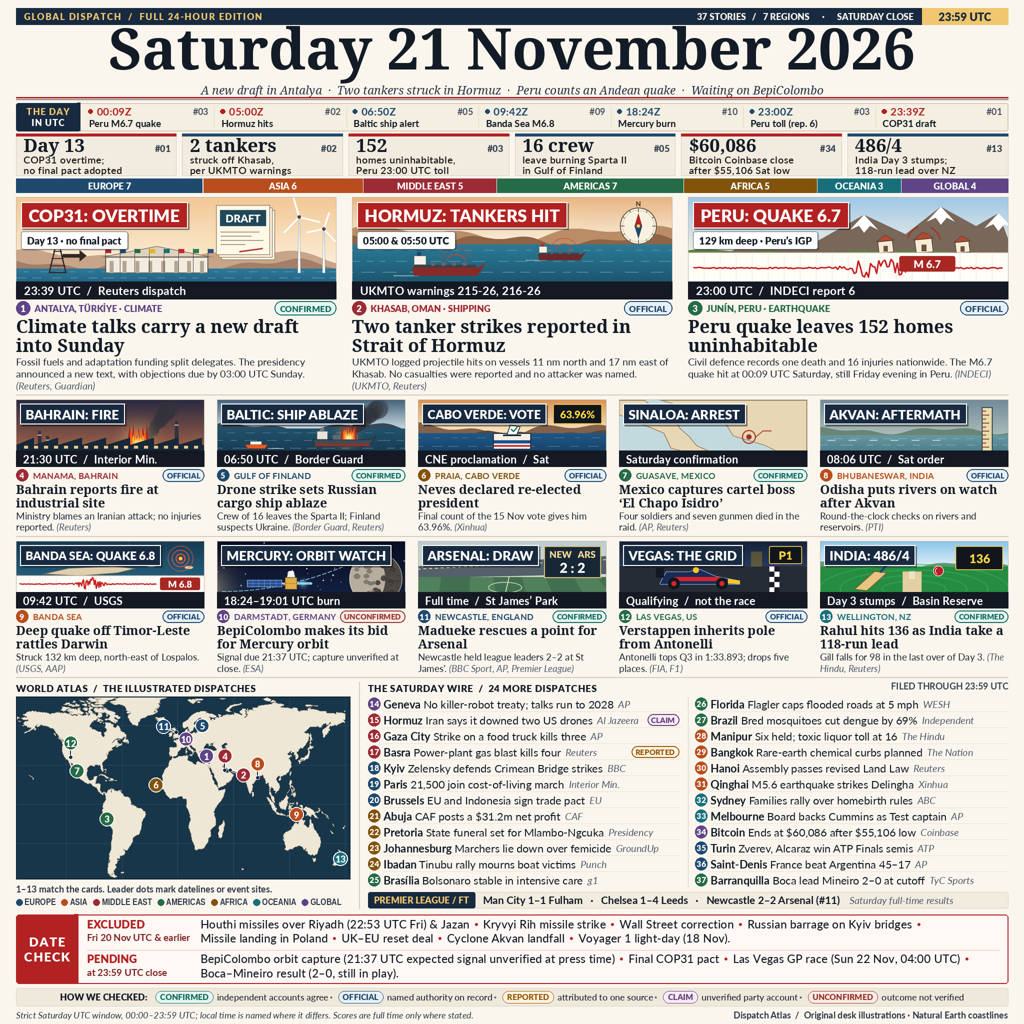
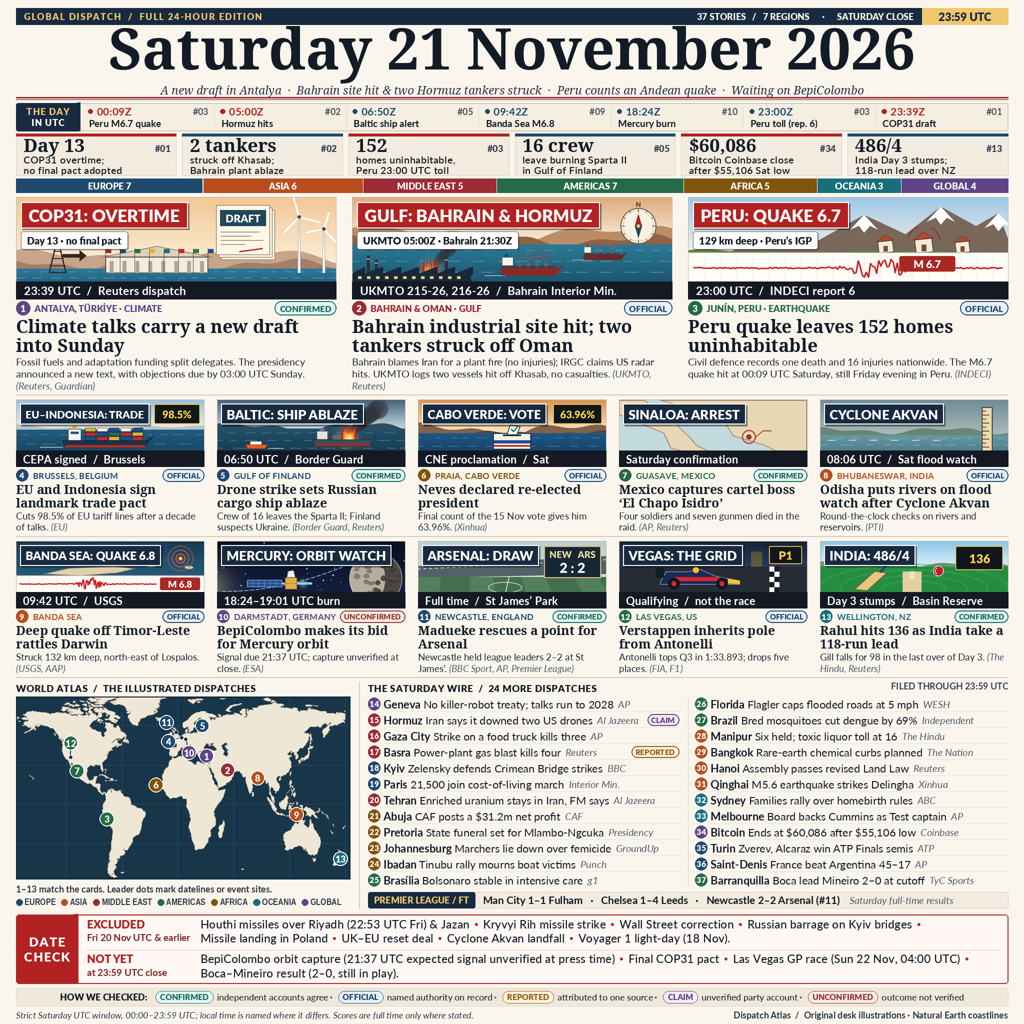
Combine Gulf lead, promote EU-Indonesia trade pact, and clarify Akvan & date-check copy (v12)

diff --git a/tools/art.py b/tools/art.py
@@ -252,57 +252,72 @@ def scene_cop31(p):
     p.line([(x + 24, y + 46.5), (x + 46, y + 43.5)], "#AF392F", 1.5)
 
 
-def scene_hormuz_hero(p):
-    """Strait of Hormuz: two outbound tankers off Khasab with an archival compass rose."""
+def scene_gulf_hero(p):
+    """Persian Gulf diptych: Bahrain industrial plant fire on left, two Hormuz tankers + compass on right."""
     w, h, g = p.w, p.h, p.base
     sea = g * 0.56
-    p.vgrad(0, sea, "#E7B482", "#FAF0DC")
-    p.glow(w * 0.68, sea * 0.85, h * 0.58, "#FFE3A6", 115)
+    p.vgrad(0, sea, "#DFAA7B", "#FAF0DC")
+    p.glow(w * 0.68, sea * 0.85, h * 0.54, "#FFE3A6", 110)
 
-    # Layered Musandam / Khasab headlands behind the strait.
+    # Layered Musandam / Khasab headlands behind the Strait of Hormuz.
     ridge(p, sea - 10.5, h * 0.11, 1.4, 0.4, "#BA8D66", y_floor=sea + 2)
     ridge(p, sea - 3.8, h * 0.07, 2.2, 1.6, "#8E6346", y_floor=sea + 2)
     waves(p, sea, h, "#2B7A96", "#15455C", n=5, seed=15)
 
-    # Distant outbound tanker (right-center) with alert beacon rings.
-    tx2, ty2 = w * 0.65, sea + (g - sea) * 0.34
-    p.line([(tx2 - 34, ty2 + 3.2), (tx2 - 14, ty2 + 3.2)], rgb("#D8F1F8", 145), 0.7)
-    p.poly([(tx2 - 22, ty2 - 2.5), (tx2 + 21, ty2 - 2.5), (tx2 + 26, ty2 - 5.5),
-            (tx2 + 20, ty2 + 3.2), (tx2 - 21, ty2 + 3.2)], "#6F2829")
-    p.rect(tx2 - 21, ty2 - 4.2, tx2 + 19, ty2 - 2.4, "#3B434E")
-    p.rect(tx2 - 21, ty2 - 10.5, tx2 - 13, ty2 - 4.2, "#F6F2E9", "#7C756A", 0.35)
-    p.rect(tx2 - 19, ty2 - 13.5, tx2 - 16, ty2 - 10.5, "#B0322E")
+    # Left shore: Bahrain industrial facility silhouette with fire & smoke plume (clear below sub-tag).
+    bx_end = w * 0.345
+    smoke(p, w * 0.255, g - 15, 22, -25, 2.8, 7.8, 12, "#2E303A", 165, seed=13)
+    p.glow(w * 0.245, g - 11, 22, "#FFBD63", 175, steps=10)
+    flames(p, w * 0.245, g - 6, 17, 19, seed=7)
+    for sx, top in ((14, g - 26), (22, g - 22), (92, g - 25)):
+        p.poly([(sx, h), (sx + 1, top), (sx + 3.5, top), (sx + 5, h)], "#2C2E3E")
+        p.line([(sx + 1, top + 3.5), (sx + 3.5, top + 3.5)], "#E5C19F", 0.9)
+    roof = [(0, h), (0, g - 8)]
+    for x in range(0, int(bx_end), 18):
+        roof.extend([(x + 13, g - 15), (x + 13, g - 8)])
+    p.poly(roof + [(bx_end + 8, g - 5), (bx_end + 14, h)], "#182839")
+    for x in range(6, int(bx_end) - 4, 9):
+        p.rect(x, g - 5.2, x + 3.6, g - 2.6, "#F2CA85")
+
+    # Right sea lane: distant outbound tanker off Khasab with alert beacon arcs.
+    tx2, ty2 = w * 0.785, sea + (g - sea) * 0.34
+    p.line([(tx2 - 30, ty2 + 3.0), (tx2 - 12, ty2 + 3.0)], rgb("#D8F1F8", 145), 0.7)
+    p.poly([(tx2 - 20, ty2 - 2.4), (tx2 + 19, ty2 - 2.4), (tx2 + 24, ty2 - 5.2),
+            (tx2 + 18, ty2 + 3.0), (tx2 - 19, ty2 + 3.0)], "#6F2829")
+    p.rect(tx2 - 19, ty2 - 4.0, tx2 + 17, ty2 - 2.3, "#3B434E")
+    p.rect(tx2 - 19, ty2 - 10.0, tx2 - 12, ty2 - 4.0, "#F6F2E9", "#7C756A", 0.35)
+    p.rect(tx2 - 17, ty2 - 12.8, tx2 - 14.5, ty2 - 10.0, "#B0322E")
     for k in range(3):
-        p.circle(tx2 - 8 + k * 8.5, ty2 - 5.0, 1.8, "#58626E")
-    for rr, al in ((9.5, 195), (15.0, 130)):
-        p.arc(tx2 + 4, ty2 - 4, rr, 200, 340, rgb("#D43D2C", al), 1.05)
+        p.circle(tx2 - 7 + k * 7.8, ty2 - 4.8, 1.7, "#58626E")
+    for rr, al in ((8.8, 195), (13.8, 130)):
+        p.arc(tx2 + 3, ty2 - 4, rr, 200, 340, rgb("#D43D2C", al), 1.0)
 
-    # Foreground outbound tanker (lower-left, clear of the ribbon and sub-tag).
-    tx1, ty1 = w * 0.30, g - 10.5
-    p.line([(tx1 - 54, ty1 + 4.8), (tx1 - 30, ty1 + 4.8)], rgb("#D8F1F8", 160), 0.9)
-    p.poly([(tx1 - 36, ty1 - 3.8), (tx1 + 31, ty1 - 3.8), (tx1 + 38, ty1 - 8.2),
-            (tx1 + 29, ty1 + 4.8), (tx1 - 34, ty1 + 4.8)], "#862B28")
-    p.rect(tx1 - 34, ty1 - 6.2, tx1 + 28, ty1 - 3.8, "#38414C")
-    p.rect(tx1 - 34, ty1 - 15.2, tx1 - 22, ty1 - 6.2, "#F7F3EA", "#6F685E", 0.4)
-    p.rect(tx1 - 31, ty1 - 19.2, tx1 - 27, ty1 - 15.2, "#1F4A6E")
+    # Mid-foreground outbound tanker in the Strait of Hormuz.
+    tx1, ty1 = w * 0.56, g - 10.2
+    p.line([(tx1 - 46, ty1 + 4.4), (tx1 - 26, ty1 + 4.4)], rgb("#D8F1F8", 160), 0.85)
+    p.poly([(tx1 - 31, ty1 - 3.5), (tx1 + 27, ty1 - 3.5), (tx1 + 33, ty1 - 7.5),
+            (tx1 + 25, ty1 + 4.4), (tx1 - 29, ty1 + 4.4)], "#862B28")
+    p.rect(tx1 - 29, ty1 - 5.6, tx1 + 24, ty1 - 3.5, "#38414C")
+    p.rect(tx1 - 29, ty1 - 14.0, tx1 - 18, ty1 - 5.6, "#F7F3EA", "#6F685E", 0.4)
+    p.rect(tx1 - 26.5, ty1 - 17.5, tx1 - 23, ty1 - 14.0, "#1F4A6E")
     for k in range(4):
-        p.circle(tx1 - 15 + k * 10.5, ty1 - 7.3, 2.3, "#5B6572")
-    for rr, al in ((11.0, 205), (17.5, 135)):
-        p.arc(tx1 + 8, ty1 - 6, rr, 205, 335, rgb("#D43D2C", al), 1.15)
+        p.circle(tx1 - 12 + k * 9.0, ty1 - 6.7, 2.1, "#5B6572")
+    for rr, al in ((10.0, 205), (15.5, 135)):
+        p.arc(tx1 + 6, ty1 - 5.5, rr, 205, 335, rgb("#D43D2C", al), 1.1)
 
-    # Archival nautical compass rose in the clear upper-right sky (no blame implied).
-    cx, cy, cr = w * 0.895, 29.0, 18.5
+    # Archival nautical compass rose in the clear upper-right sky.
+    cx, cy, cr = w * 0.895, 29.0, 18.0
     p.circle(cx, cy, cr, "#FAF2E1", "#6D5E4C", 0.95)
     p.circle(cx, cy, cr - 2.6, None, "#C8B89E", 0.5)
     for angle in range(0, 360, 30):
         a = math.radians(angle)
-        inner = cr - (4.4 if angle % 90 == 0 else 2.6)
+        inner = cr - (4.2 if angle % 90 == 0 else 2.5)
         p.line([(cx + inner * math.sin(a), cy - inner * math.cos(a)),
                 (cx + (cr - 0.8) * math.sin(a), cy - (cr - 0.8) * math.cos(a))], "#6B6156", 0.75)
-    p.poly([(cx - 3.8, cy), (cx, cy - 12.6), (cx + 3.8, cy)], "#B22222")
-    p.poly([(cx - 3.8, cy), (cx, cy + 12.6), (cx + 3.8, cy)], "#1F4A6E")
+    p.poly([(cx - 3.6, cy), (cx, cy - 12.2), (cx + 3.6, cy)], "#B22222")
+    p.poly([(cx - 3.6, cy), (cx, cy + 12.2), (cx + 3.6, cy)], "#1F4A6E")
     p.circle(cx, cy, 2.2, "#F0C66E", "#4A3E30", 0.5)
-    p.text(cx, cy - cr - 3.8, "N", 6.8, "#5A4634")
+    p.text(cx, cy - cr - 3.6, "N", 6.8, "#5A4634")
 
 
 def scene_peru_hero(p):
@@ -539,21 +554,41 @@ def scene_rahul(p):
     p.text(w * 0.85, 17.5, "136", 12.0, "#FFD23F")
 
 
-def scene_bahrain(p):
+def scene_trade(p):
+    """EU-Indonesia CEPA: container vessel crossing open waters + 98.5% tariff-cut plaque."""
     w, h, g = p.w, p.h, p.base
-    p.vgrad(0, h, "#292A41", "#CC7549")
-    smoke(p, w * .69, g * .80, 24, -33, 3, 9, 18, "#32313A", 185)
-    p.glow(w * .65, g * .78, 34, "#FFC87C", 190)
-    flames(p, w * .65, g * .90, 22, 24)
-    for x, top in ((21, 31), (29, 36), (158, 21)):
-        p.poly([(x, h), (x + 1, top), (x + 4, top), (x + 6, h)], "#323242")
-        p.line([(x + 1, top + 4), (x + 4, top + 4)], "#E2BE9E", 1)
-    roof = [(0, h), (0, g * .88)]
-    for x in range(0, int(w), 24):
-        roof.extend([(x + 18, g * .74), (x + 18, g * .88)])
-    p.poly(roof + [(w, g * .88), (w, h)], "#162839")
-    for x in range(8, int(w), 10):
-        p.rect(x, g - 5.2, x + 4, g - 2.4, "#EFC887")
+    sea = g * 0.58
+    p.vgrad(0, sea, "#9AC0DC", "#F5EFE3")
+    ridge(p, sea - 1.5, h * 0.06, 1.3, 0.9, "#B6C4CC", y_floor=sea + 2)
+    waves(p, sea, h, "#215B7E", "#123852", crest="#E3F2FA", n=4, seed=47)
+
+    # Stylized deep-water container vessel carrying EU-navy, gold, crimson & ivory containers.
+    sx, sy = w * 0.48, g - 8.5
+    p.line([(sx - 66, sy + 4.8), (sx - 44, sy + 4.8)], rgb("#E6F4FA", 170), 0.85)
+    p.poly([(sx - 44, sy - 2.0), (sx + 40, sy - 2.0), (sx + 48, sy - 7.0),
+            (sx + 38, sy + 5.2), (sx - 41, sy + 5.2)], "#1D3248", "#0F1D2C", 0.55)
+    p.rect(sx - 41, sy + 2.6, sx + 39, sy + 5.0, "#A9302A")
+    # Stern bridge tower.
+    p.rect(sx - 38, sy - 13.5, sx - 25, sy - 2.0, "#F8F4EC", "#394856", 0.5)
+    p.rect(sx - 35.5, sy - 10.8, sx - 27.5, sy - 8.6, "#1F4E8C")
+    p.rect(sx - 34, sy - 16.5, sx - 29.5, sy - 13.5, "#E0AF38")
+    # Stacked containers cleanly below the upper-left ribbon.
+    cols = (
+        ("#1F4E8C", "#C42B2B", "#E0AF38"),
+        ("#C42B2B", "#1F4E8C", "#F6F1E4"),
+        ("#E0AF38", "#2B6B4F", "#1F4E8C"),
+        ("#1F4E8C", "#C42B2B", "#F6F1E4"),
+        ("#C42B2B", "#E0AF38", "#1F4E8C"),
+    )
+    for ci, stack in enumerate(cols):
+        cx0 = sx - 21 + ci * 11.8
+        for ri, col in enumerate(stack):
+            cy1 = sy - 2.0 - ri * 4.4
+            p.rect(cx0, cy1 - 3.9, cx0 + 10.6, cy1, col, "#142230", 0.35)
+
+    # Dark-and-gold tariff-line cut plaque in the clear upper-right.
+    p.rect(w - 50, 4, w - 4, 24, "#11161D", "#F0C842", 0.9, r=1.5)
+    p.text(w - 27, 14.3, "98.5%", 10.4, "#FFD23F")
 
 
 def scene_flood(p):
@@ -609,8 +644,8 @@ def scene_football(p):
 
 
 SCENES = {
-    "cop": scene_cop31, "hormuz": scene_hormuz_hero, "andes": scene_peru_hero,
-    "bahrain": scene_bahrain, "baltic": scene_baltic, "caboverde": scene_caboverde,
+    "cop": scene_cop31, "gulf": scene_gulf_hero, "andes": scene_peru_hero,
+    "trade": scene_trade, "baltic": scene_baltic, "caboverde": scene_caboverde,
     "sinaloa": scene_sinaloa, "flood": scene_flood, "bandasea": scene_bandasea,
     "mercury": scene_bepicolombo, "football": scene_football, "vegas": scene_vegas_pole,
     "cricket": scene_rahul,

diff --git a/tools/stories.py b/tools/stories.py
@@ -24,7 +24,7 @@ REGIONS = [
 TAGS = ("CONFIRMED", "OFFICIAL", "REPORTED", "CLAIM", "UNCONFIRMED")
 
 DECK = (
-    "A new draft in Antalya  ·  Two tankers struck in Hormuz  ·  "
+    "A new draft in Antalya  ·  Bahrain site hit & two Hormuz tankers struck  ·  "
     "Peru counts an Andean quake  ·  Waiting on BepiColombo"
 )
 
@@ -44,20 +44,20 @@ STORIES = [
          "Fossil fuels and adaptation funding split delegates. The presidency announced "
          "a new text, with objections due by 03:00 UTC Sunday.",
          sub="Day 13 · no final pact", chip="23:39 UTC  /  Reuters dispatch"),
-    card("MIDEAST", "OFFICIAL", "KHASAB, OMAN", 26.18, 56.25, "hormuz", "Shipping",
-         "HORMUZ: TANKERS HIT", "Two tanker strikes reported in Strait of Hormuz",
-         "UKMTO logged projectile hits on vessels 11 nm north and 17 nm east "
-         "of Khasab. No casualties were reported and no attacker was named.",
-         sub="05:00 & 05:50 UTC", chip="UKMTO warnings 215-26, 216-26"),
+    card("MIDEAST", "OFFICIAL", "BAHRAIN & OMAN", 26.20, 53.40, "gulf", "Gulf",
+         "GULF: BAHRAIN & HORMUZ", "Bahrain industrial site hit; two tankers struck off Oman",
+         "Bahrain blames Iran for a plant fire (no injuries); IRGC claims US radar hits. "
+         "UKMTO logs two vessels hit off Khasab, no casualties.",
+         sub="UKMTO 05:00Z · Bahrain 21:30Z", chip="UKMTO 215-26, 216-26  /  Bahrain Interior Min."),
     card("AMERICAS", "OFFICIAL", "JUNÍN, PERU", -10.97, -76.19, "andes", "Earthquake",
          "PERU: QUAKE 6.7", "Peru quake leaves 152 homes uninhabitable",
          "Civil defence records one death and 16 injuries nationwide. The M6.7 quake hit "
          "at 00:09 UTC Saturday, still Friday evening in Peru.",
          sub="129 km deep · Peru’s IGP", chip="23:00 UTC  /  INDECI report 6"),
-    card("MIDEAST", "OFFICIAL", "MANAMA, BAHRAIN", 26.23, 50.58, "bahrain", "Gulf",
-         "BAHRAIN: FIRE", "Bahrain reports fire at industrial site",
-         "Ministry blames an Iranian attack; no injuries reported.",
-         chip="21:30 UTC  /  Interior Min."),
+    card("EUROPE", "OFFICIAL", "BRUSSELS, BELGIUM", 50.85, 4.35, "trade", "Trade",
+         "EU–INDONESIA: TRADE", "EU and Indonesia sign landmark trade pact",
+         "Cuts 98.5% of EU tariff lines after a decade of talks.",
+         chip="CEPA signed  /  Brussels"),
     card("EUROPE", "CONFIRMED", "GULF OF FINLAND", 60.0, 26.2, "baltic", "Baltic",
          "BALTIC: SHIP ABLAZE", "Drone strike sets Russian cargo ship ablaze",
          "Crew of 16 leaves the Sparta II; Finland suspects Ukraine.",
@@ -71,9 +71,9 @@ STORIES = [
          "Four soldiers and seven gunmen died in the raid.",
          chip="Saturday confirmation"),
     card("ASIA", "OFFICIAL", "BHUBANESWAR, INDIA", 20.30, 85.82, "flood", "Weather",
-         "AKVAN: AFTERMATH", "Odisha puts rivers on watch after Akvan",
+         "CYCLONE AKVAN", "Odisha puts rivers on flood watch after Cyclone Akvan",
          "Round-the-clock checks on rivers and reservoirs.",
-         chip="08:06 UTC  /  Sat order"),
+         chip="08:06 UTC  /  Sat flood watch"),
     card("ASIA", "OFFICIAL", "BANDA SEA", -7.73, 127.54, "bandasea", "Earthquake",
          "BANDA SEA: QUAKE 6.8", "Deep quake off Timor-Leste rattles Darwin",
          "Struck 132 km deep, north-east of Lospalos.",
@@ -100,7 +100,7 @@ STORIES = [
     wire("MIDEAST", "Basra", "Power-plant gas blast kills four", tag="REPORTED"),
     wire("EUROPE", "Kyiv", "Zelensky defends Crimean Bridge strikes"),
     wire("EUROPE", "Paris", "21,500 join cost-of-living march"),
-    wire("EUROPE", "Brussels", "EU and Indonesia sign trade pact"),
+    wire("MIDEAST", "Tehran", "Enriched uranium stays in Iran, FM says"),
     wire("AFRICA", "Abuja", "CAF posts a $31.2m net profit"),
     wire("AFRICA", "Pretoria", "State funeral set for Mlambo-Ngcuka"),
     wire("AFRICA", "Johannesburg", "Marchers lie down over femicide"),
@@ -144,8 +144,8 @@ TIMELINE = [
 KPIS = [
     dict(story=1, figure="Day 13", caption=("COP31 overtime;", "no final pact adopted"),
          needs=("Day 13", "no final pact")),
-    dict(story=2, figure="2 tankers", caption=("struck off Khasab,", "per UKMTO warnings"),
-         needs=("Two tanker strikes", "Khasab")),
+    dict(story=2, figure="2 tankers", caption=("struck off Khasab;", "Bahrain plant ablaze"),
+         needs=("two tankers", "Khasab", "Bahrain")),
     dict(story=3, figure="152", caption=("homes uninhabitable,", "Peru 23:00 UTC toll"),
          needs=("152 homes uninhabitable",)),
     dict(story=5, figure="16 crew", caption=("leave burning Sparta II", "in Gulf of Finland"),
@@ -172,7 +172,7 @@ EXCLUDED = [
     ("Cyclone Akvan landfall", date(2026, 11, 20)),
     ("Voyager 1 light-day (18 Nov)", date(2026, 11, 18)),
 ]
-PENDING_LABEL = ("PENDING", f"at {CLOCK} close")
+PENDING_LABEL = ("NOT YET", f"at {CLOCK} close")
 PENDING = [
     ("BepiColombo orbit capture (21:37 UTC expected signal unverified at press time)", None),
     ("Final COP31 pact", None),

diff --git a/tools/render.py b/tools/render.py
@@ -404,7 +404,9 @@ def card(b, st, x, y, w, art_h, lead):
         art_subpill(b, x + 5, y + 34.5, st["sub"], 10.2, 17.5, st["id"])
         art_caption(b, x, y + art_h, w, st["chip"], 11.5, bar_h, 8.0, st["id"])
     else:
-        rib_max = (w - 62) if st["scene"] == "caboverde" else ((w - 46) if st["scene"] == "bandasea" else (w - 8))
+        rib_max = {
+            "caboverde": w - 62, "trade": w - 58, "bandasea": w - 46,
+        }.get(st["scene"], w - 8)
         art_ribbon(b, x + 4, y + 4, st["banner"], 13.2, 20.5, rib_max, st["id"])
         art_caption(b, x, y + art_h, w, st["chip"], 11.0, bar_h, 7.0, st["id"])
 
@@ -478,8 +480,8 @@ def world_map(b, x, y, w, h):
         best = None
         # In dense clusters, offset the numbered badge while keeping the leader dot on the true coordinate.
         bearing = {
-            "cop": -45, "hormuz": 20, "bahrain": -135, "baltic": -40,
-            "mercury": -90, "football": -155, "caboverde": -135,
+            "cop": -45, "gulf": 25, "trade": 165, "baltic": -40,
+            "mercury": -80, "football": -135, "caboverde": -135,
             "sinaloa": 120, "bandasea": -30,
         }.get(st["scene"], -90)
         for ring in range(4):

diff --git a/README.md b/README.md
@@ -12,8 +12,9 @@ Thirty-seven strict Saturday-UTC dispatches across seven editorial regions (`EUR
 [SOURCES.tsv](SOURCES.tsv) is the edition ledger. Every row gives a card or wire number, the UTC date or documented minute inside `2026-11-21T00:00Z..23:59Z`, the printed credit, the direct source URL, and the exact fact it supports.
 
 - **Antalya (card 1, `CONFIRMED`):** Reuters (`23:39 UTC`) and the Guardian (`22:25 UTC`) reported a new presidency package announced on Day 13 overtime, not a final adopted pact. Objections were due at `03:00 UTC` Sunday with a plenary set for `06:00 UTC` Sunday.
-- **Strait of Hormuz (card 2, `OFFICIAL`):** UKMTO logged two Saturday-UTC projectile hits near Khasab, Oman — Warning `215-26` at `05:00 UTC` (11 nm north) and Warning `216-26` at `05:50 UTC` (17 nm east) — with no casualties reported and no attacker named.
+- **Gulf — Bahrain & Hormuz (card 2, `OFFICIAL`):** Bahrain's Interior Ministry reported a fire at an industrial facility blamed on an Iranian attack (`21:30 UTC`, no injuries), while the IRGC separately claimed strikes on US Patriot radar bases (rejected by Bahrain). Earlier, UKMTO logged two Saturday-UTC projectile hits near Khasab, Oman — Warning `215-26` at `05:00 UTC` (11 nm north) and Warning `216-26` at `05:50 UTC` (17 nm east) — with no casualties and no attacker named.
 - **Junín, Peru (card 3, `OFFICIAL`):** Peru's IGP recorded the M6.7 origin at `00:09 UTC` Saturday (`19:09` local Friday, 129 km deep). COEN–INDECI report 6 (`23:00 UTC` / `18:00` Peru) logged national totals of 1 dead, 16 injured, and 152 homes uninhabitable.
+- **Brussels (card 4, `OFFICIAL`):** The European Union and Indonesia signed their Comprehensive Economic Partnership Agreement (CEPA) and Investment Protection Agreement on Saturday 21 November in Brussels, eliminating or cutting 98.5% of EU tariff lines after a decade of negotiations.
 - **Gulf of Finland (card 5, `CONFIRMED`):** The Finnish Border Guard was alerted around `06:50 UTC` (`08:50 EET`) Saturday after drones struck the Russian cargo ship *Sparta II*; all 16 crew members evacuated as Finnish authorities suspected Ukrainian drones.
 - **Praia, Cabo Verde (card 6, `OFFICIAL`):** On Saturday 21 November, the National Electoral Commission (CNE) officially proclaimed incumbent President José Maria Neves re-elected with 63.96% (82,621 valid votes) from the 15 November ballot.
 - **Guasave, Mexico (card 7, `CONFIRMED`):** Mexican federal authorities confirmed the capture of cartel leader Fausto Isidro Meza Flores ('El Chapo Isidro') on Saturday following overnight clashes and Saturday extraction to Mexico City; four soldiers and seven gunmen were killed.
@@ -37,7 +38,7 @@ The box at the foot of the page prints two ledgers:
 | Cyclone Akvan landfall | Fri 20 Nov | [The Hindu](https://www.thehindu.com/news/national/cyclone-akvan-odisha-andhra-pradesh-landfall-imd-updates/article71722866.ece), [IMD](https://mausam.imd.gov.in/backend/assets/cyclone_pdf/11_Hourly_Bulletin_201126_0930IST.pdf) |
 | Voyager 1 light-day | Wed 18 Nov | [NASA](https://www.nasa.gov/news-release/nasas-voyager-1-makes-history-reaching-one-light-day-from-earth/) |
 
-**Pending at 23:59 UTC close** lists outcomes the page does not assert: BepiColombo orbit capture (card 10), final COP31 pact adoption (card 1), the Las Vegas GP race (`Sun 22 Nov, 04:00 UTC`, card 12 is qualifying), and the Boca–Mineiro final whistle (wire 37).
+**Not yet at 23:59 UTC close** lists outcomes the page does not assert: BepiColombo orbit capture (card 10), final COP31 pact adoption (card 1), the Las Vegas GP race (`Sun 22 Nov, 04:00 UTC`, card 12 is qualifying), and the Boca–Mineiro final whistle (wire 37).
 
 ## Reproduce
 
